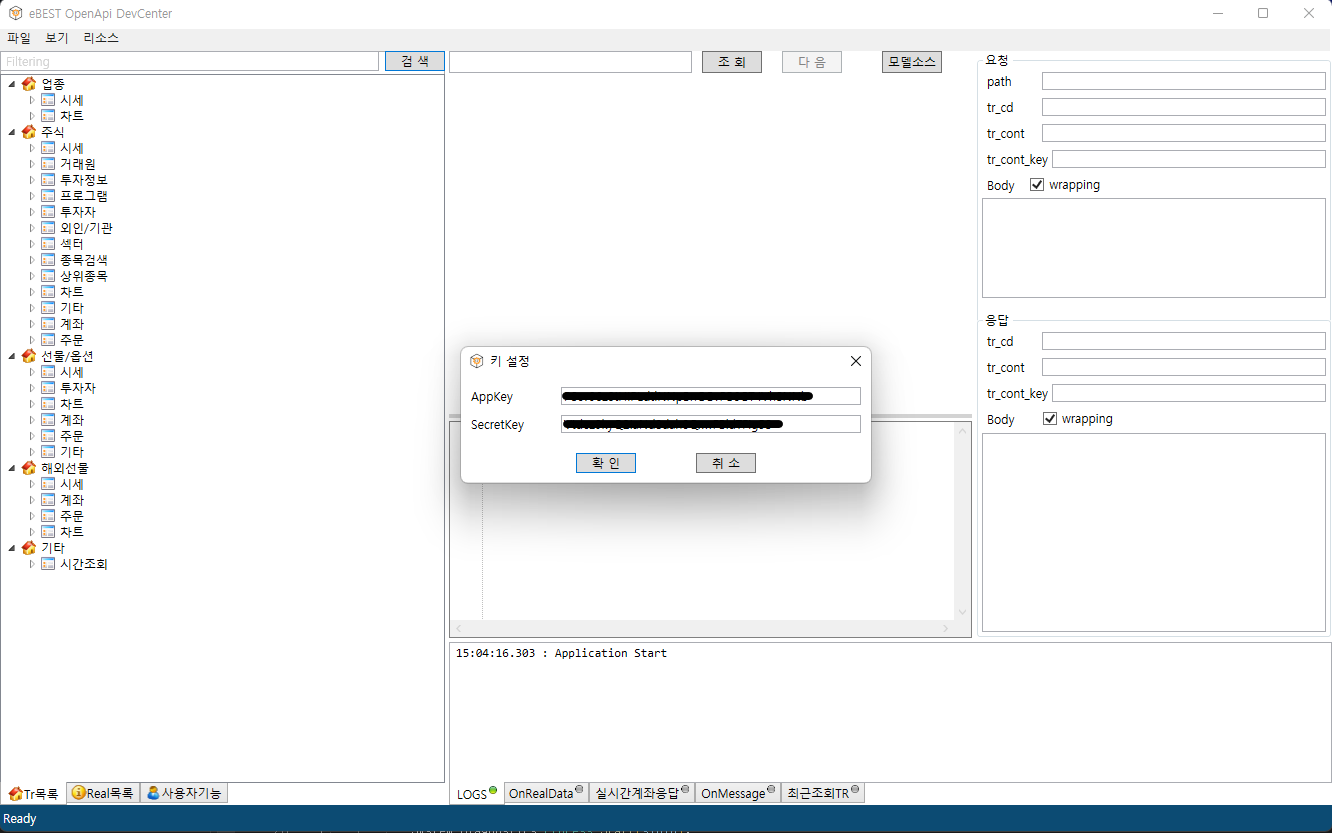
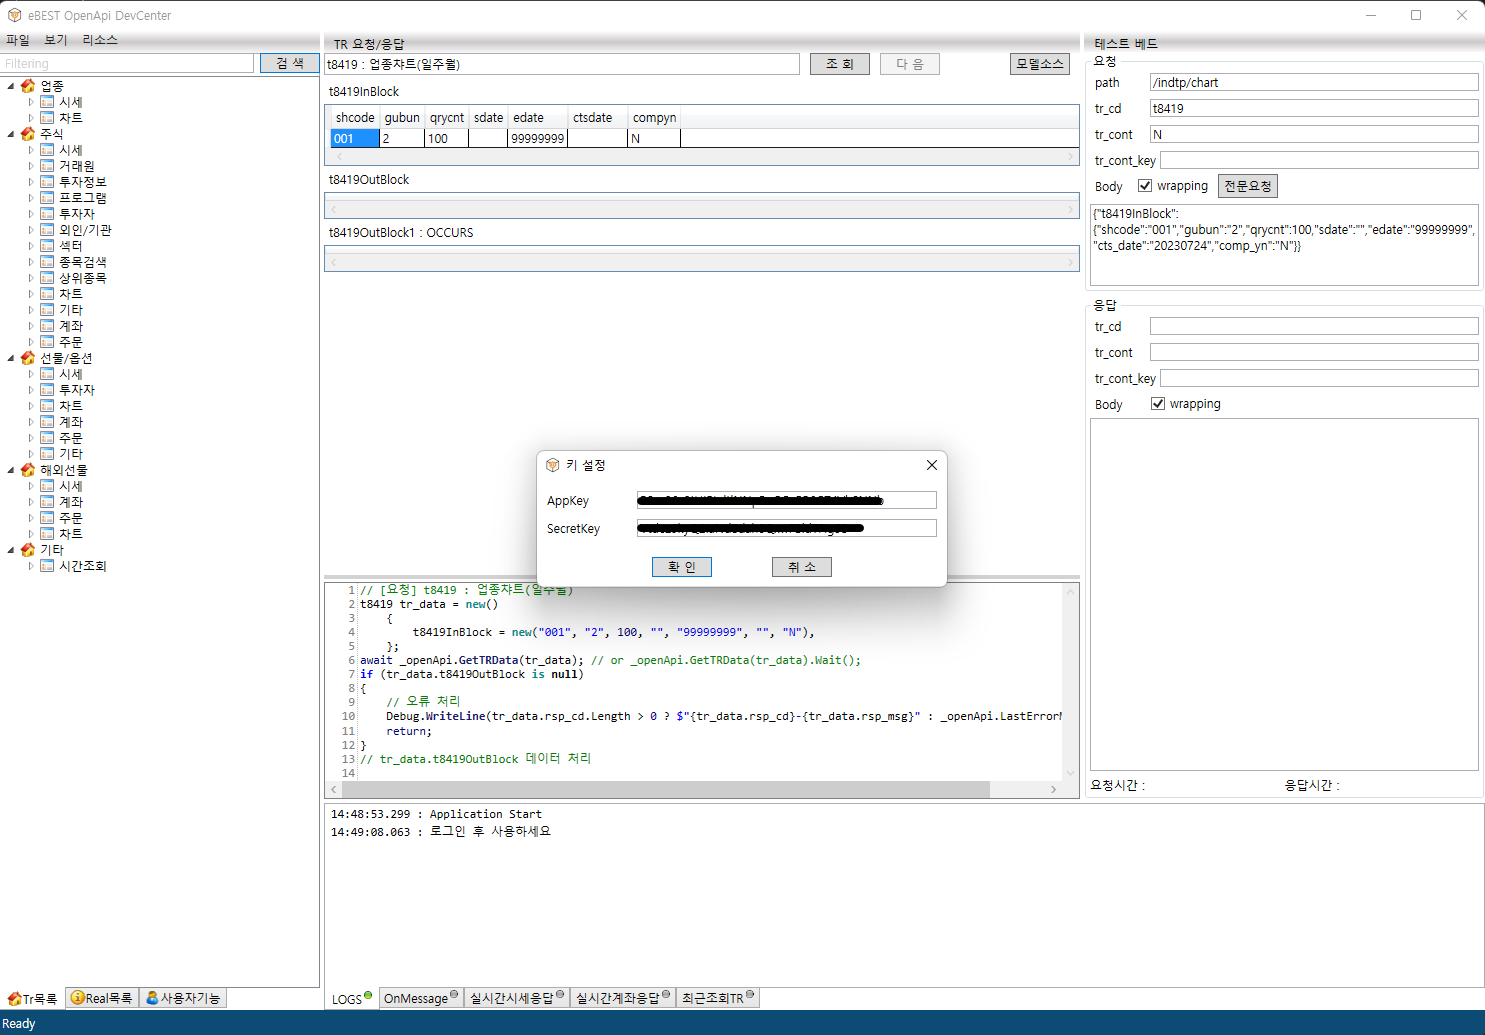
Update README

diff --git a/README.md b/README.md
@@ -18,13 +18,13 @@ Visual Studio 2022, NET8.0
 ### 간편 검색기능, 모델 소스 생성 기능 제공
 
 ## 📷 Screenshots
-* 이베스트 OpenApi 로그인 기능
+* 이베스트 OpenApi 로그인
 ![](./img/run-001.png)
 
-* TR목록 + 입력설정 + 출력데이터 표시 + TR요청 소스 및 모델소스 표시 + JSON 요청/응답 데이터 표시 + 애플리케이션 로그 표시
+* TR목록 + 검색기능 + 입력설정 + 출력데이터 표시 + 소스 및 모델 표시 + JSON 요청/응답 테스트베드 + 애플리케이션 로그 표시
 ![](./img/run-002.png)
 
-* 실시간목록 + 요청 및 실시간 시세 수신
+* 실시간목록 + 소스 및 모델 표시 + 요청 및 실시간 시세 수신
 ![](./img/run-003.png)
 
 ![](./img/run-004.png)
